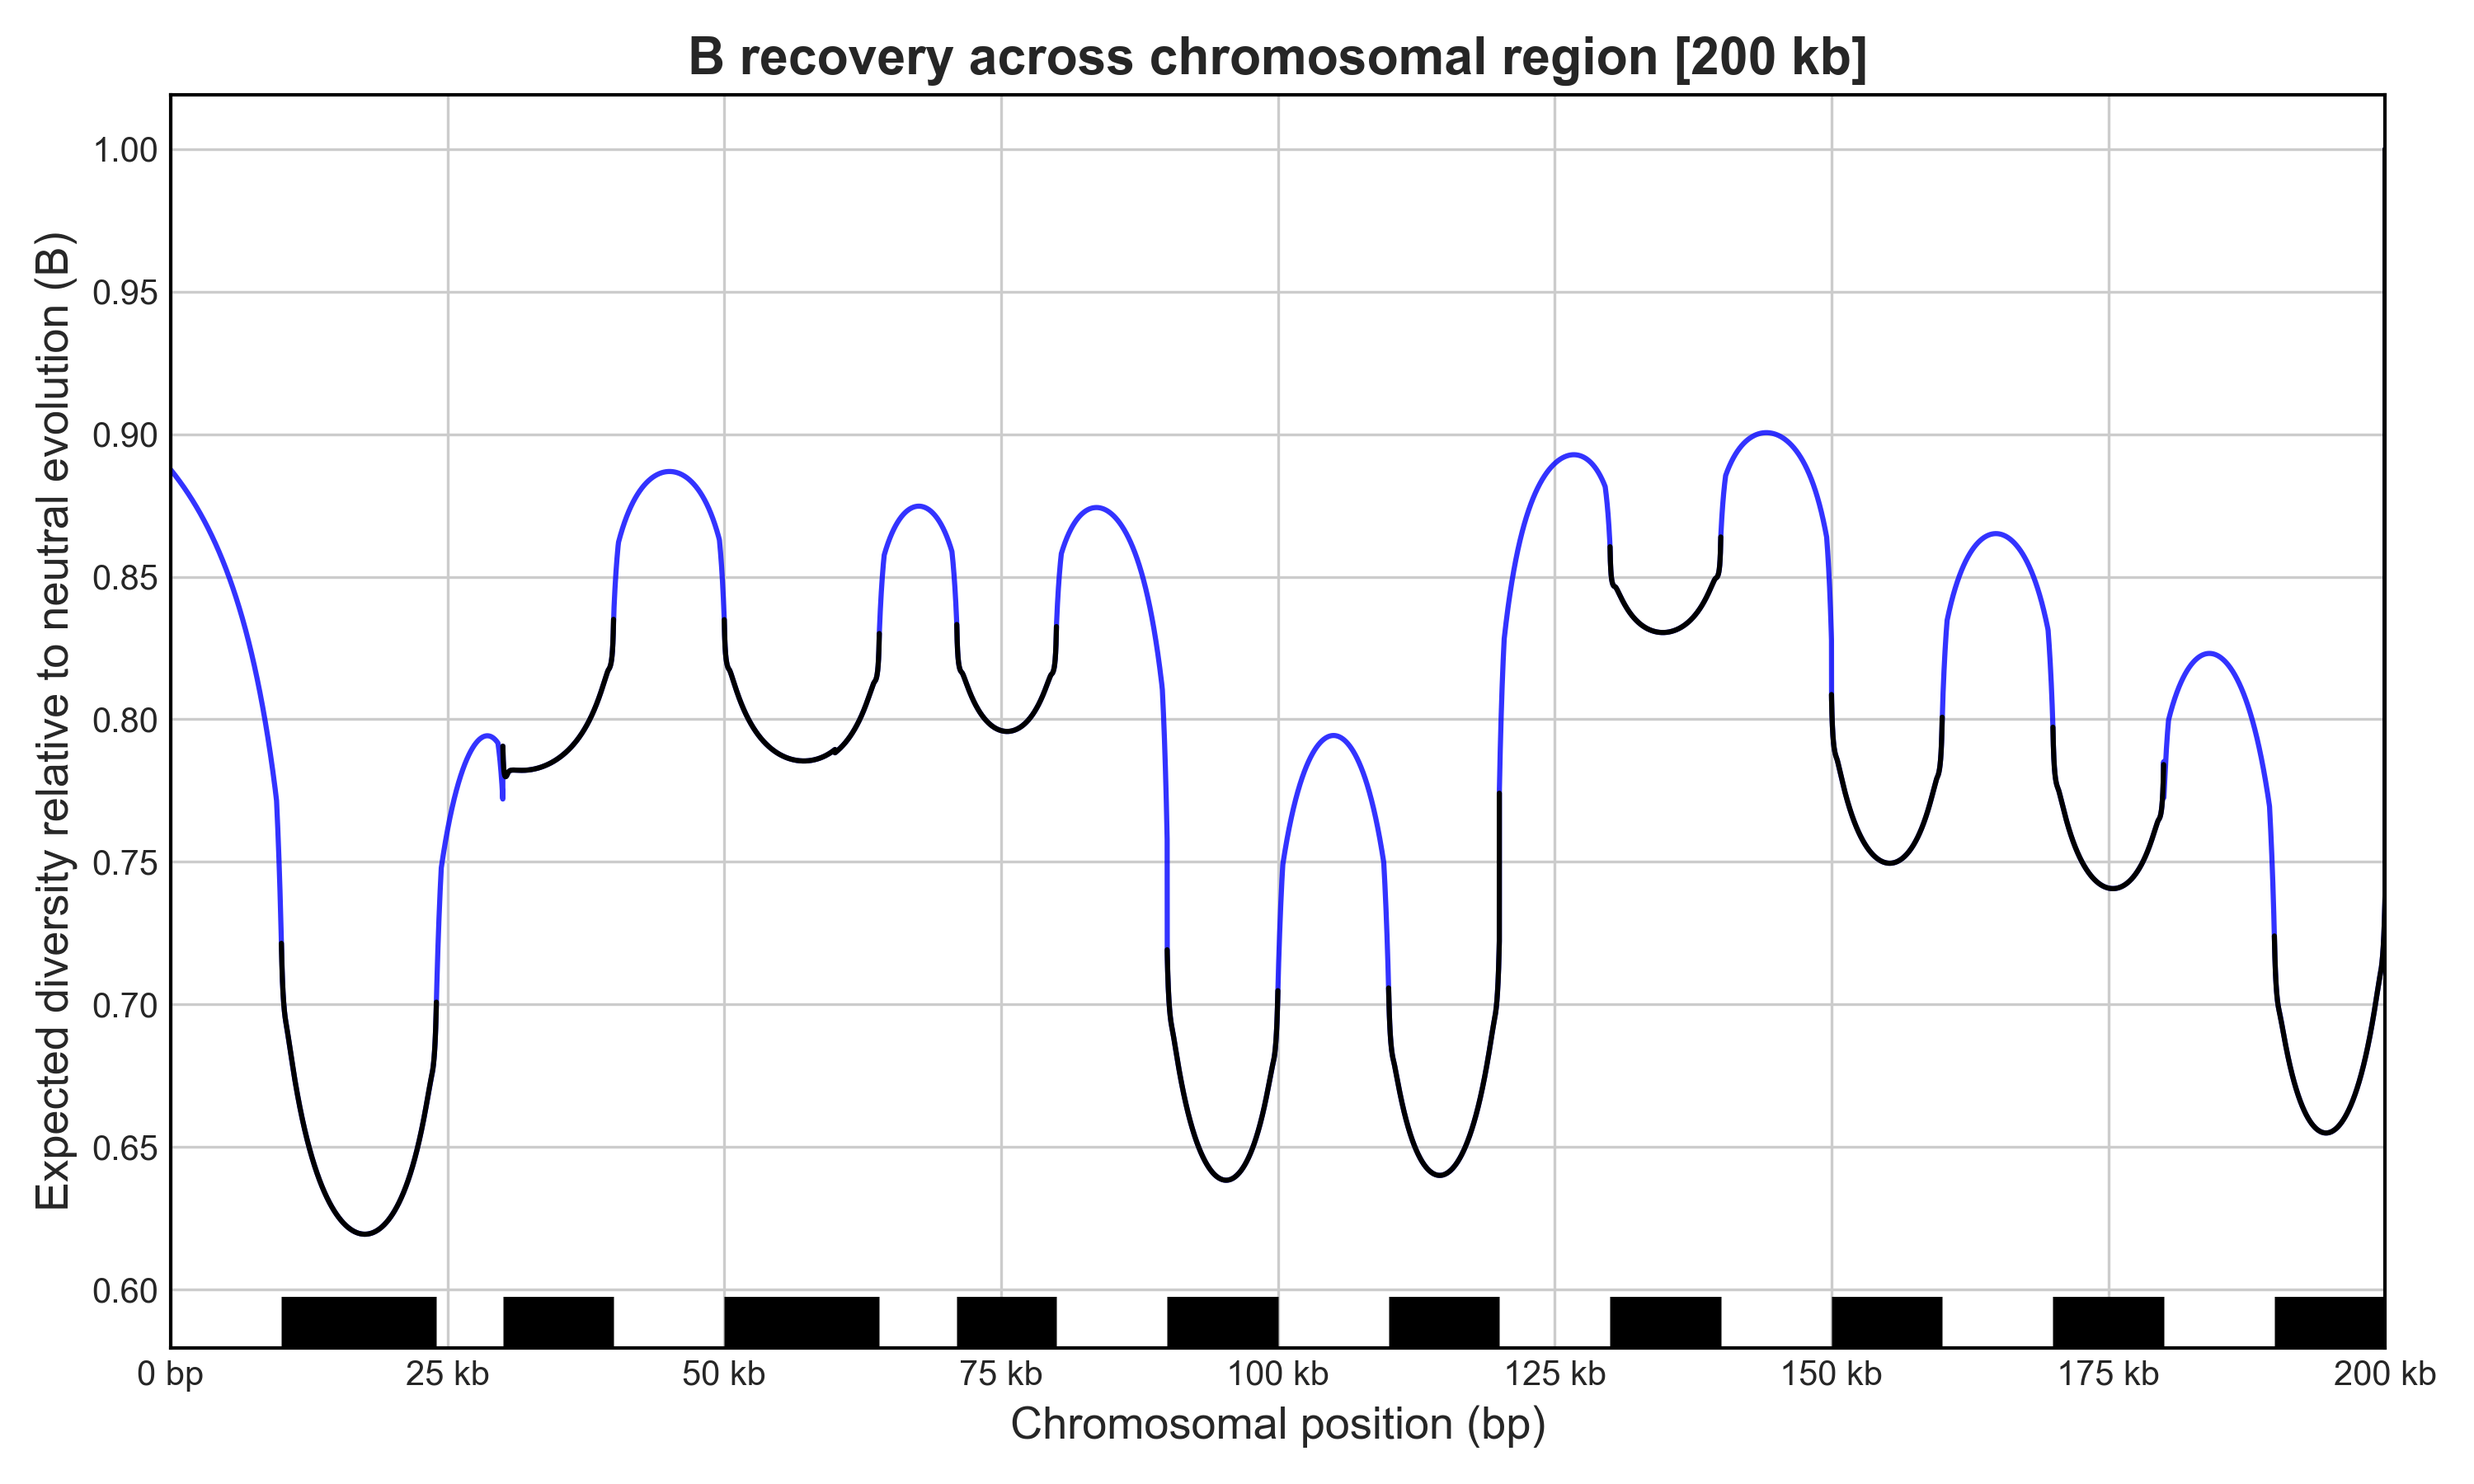
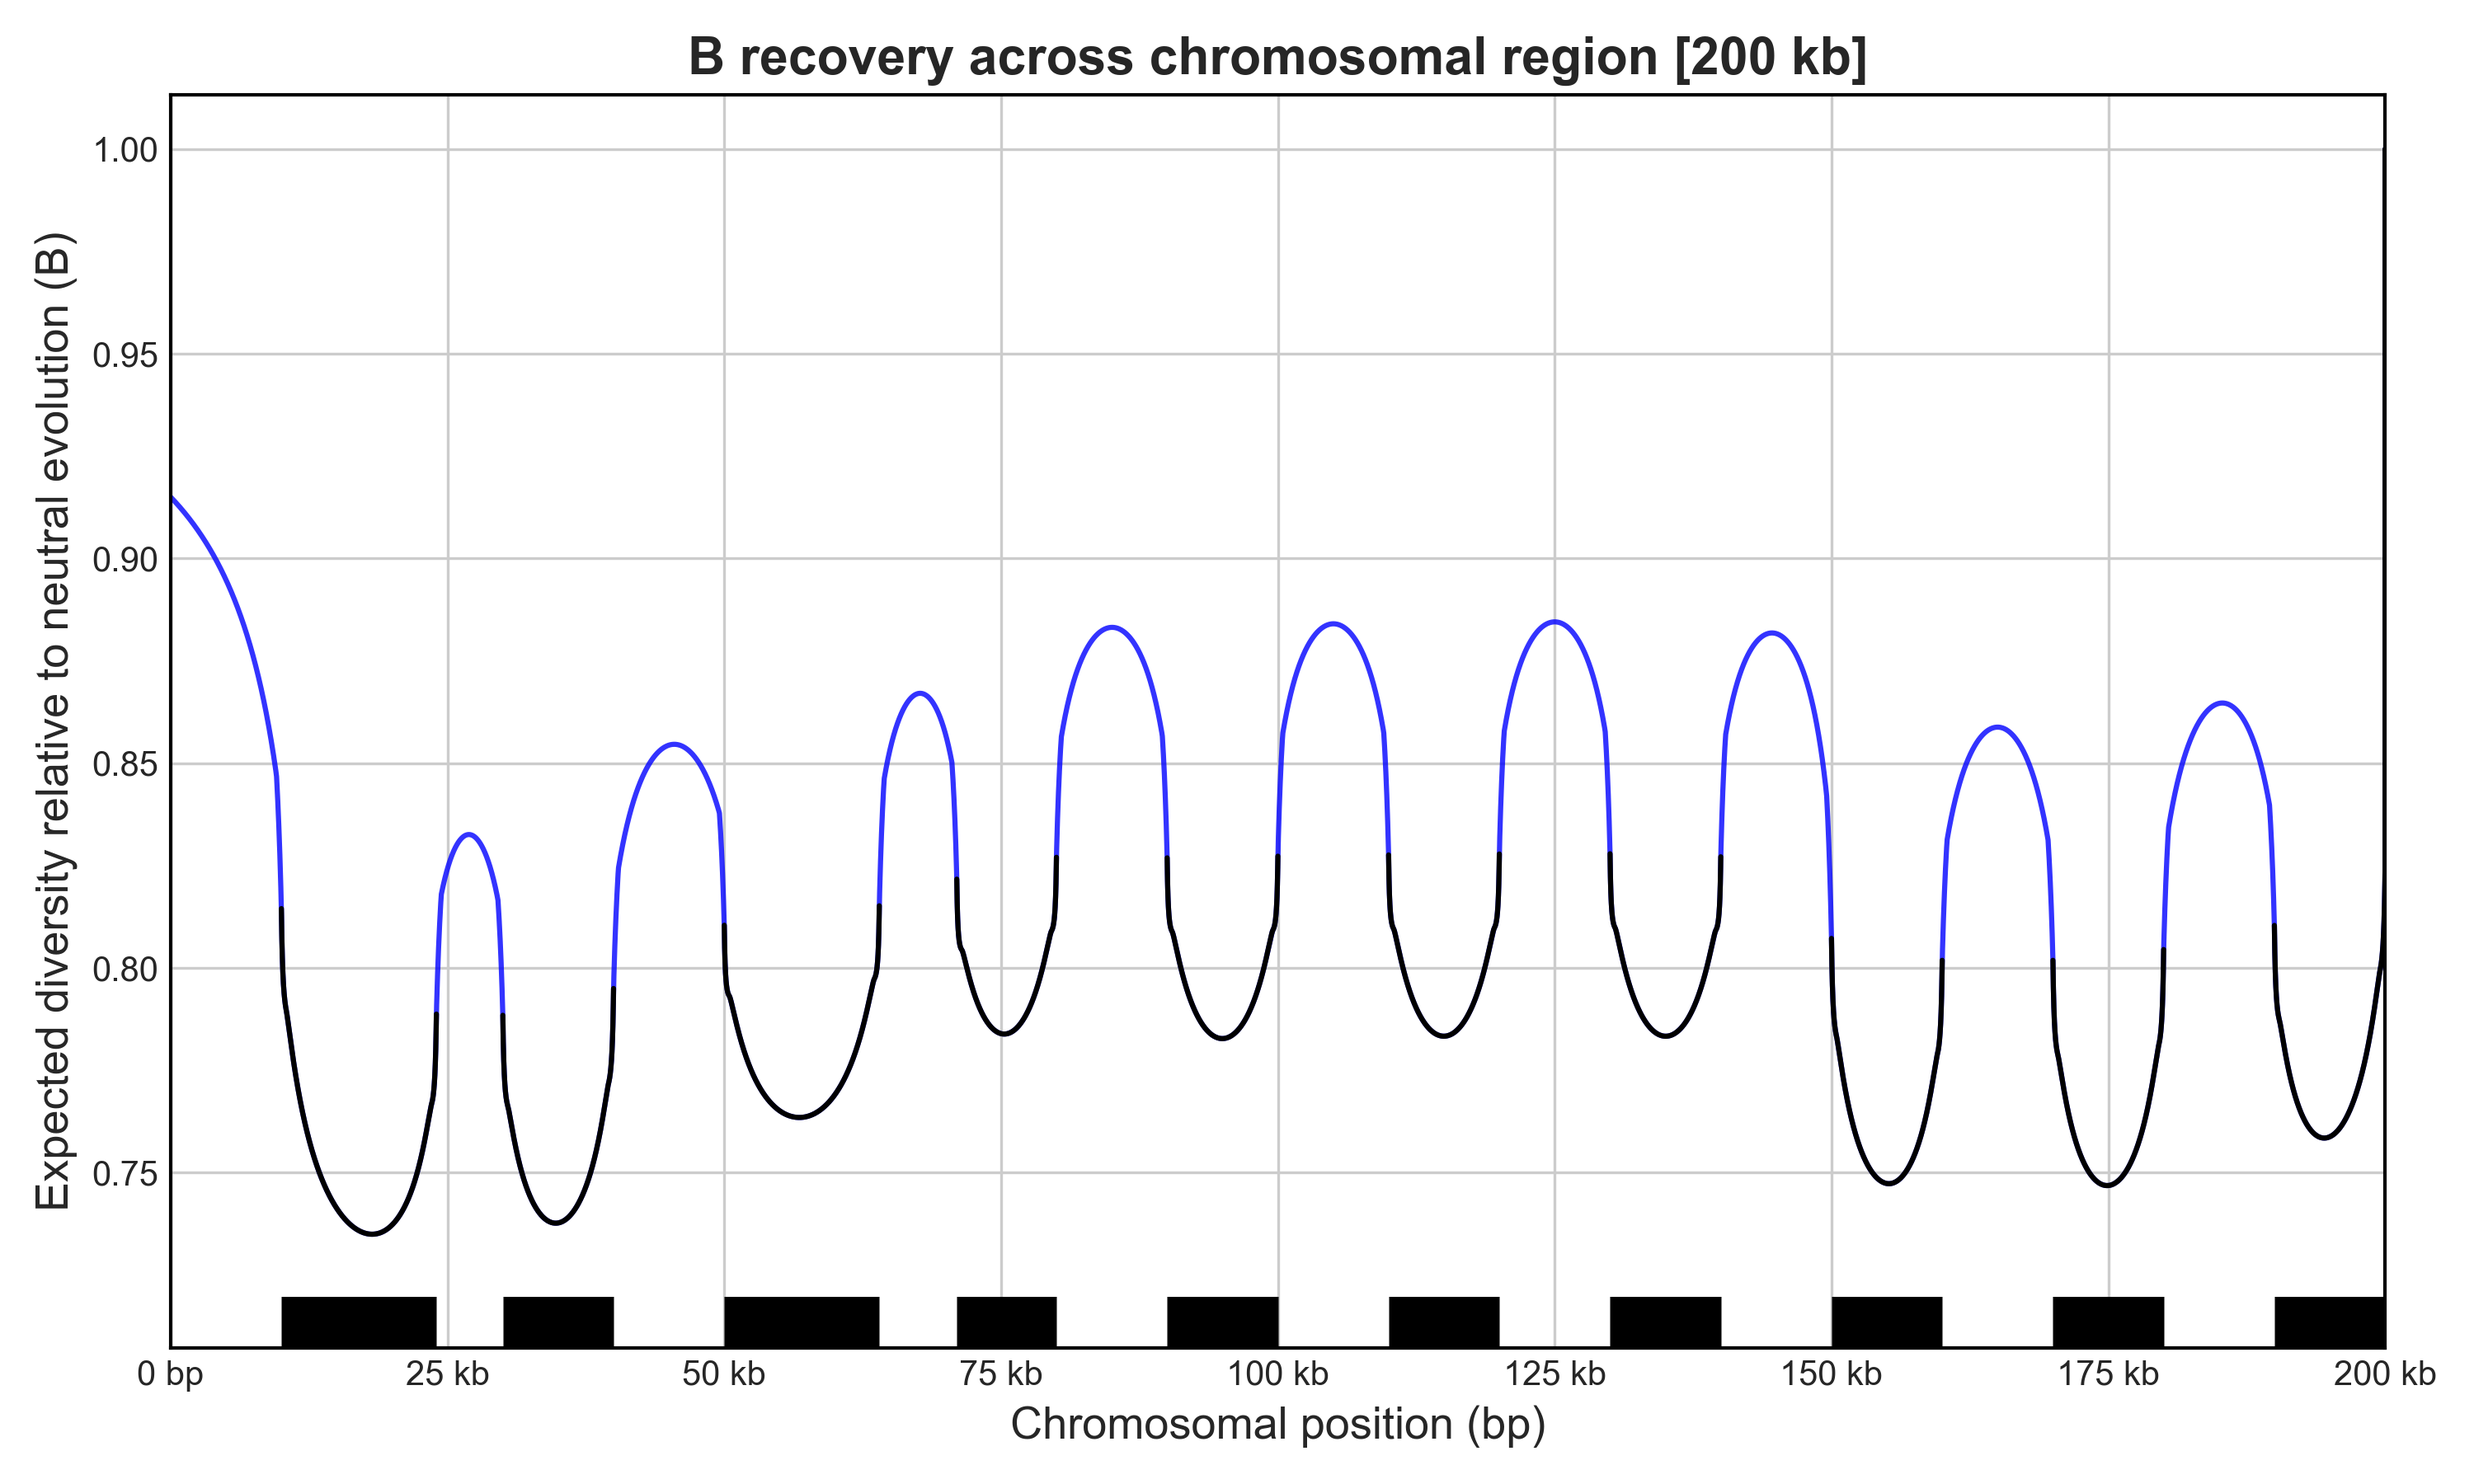
Variable gene conversion now averages over y + l

diff --git a/helperScripts/calculateB.py b/helperScripts/calculateB.py
@@ -34,7 +34,28 @@ def get_a_b_with_GC(C, y, l):
 
         return a, b
 
-def get_a_b_with_GC_andMaps(C, y, l, rec_l, gc_y, g_l_k, g_y_k): ## WORK ON AS YOU WRITE UP EQUATION
+def get_a_b_with_GC_andMaps(C, y, l, local_g): ## WORK ON AS YOU WRITE UP EQUATION
+        with np.errstate(divide='ignore', invalid='ignore'):
+            proportion_nogc_a = np.where(k < y + l, # When GC includes neutral site, this is proportion of the gene it includes
+                                        np.maximum((0.5*(k-y)/l), 0),
+                                        ((y) * (2 * k - (y + l)))/(2 * k * y)
+                                        )
+
+            proportion_nogc_b = np.where(k < y + l, # When GC includes gene site, this is probability the tract includes neutral site of interest 
+                                    1/(2*k) * np.maximum(k-y+1,0) * np.maximum(k - y, 0) / l,
+                                    (k - y - 0.5 * l) / k)
+        
+        a = np.where(k < y, 
+            C + (2 * local_g * k), # Probability of GC on neutral site, where overlap with element not possible
+            C + (2 * local_g * (y) + # When overlap possible this is probability gc is in neutral but doesn't include any of element
+                local_g * (k - y) * # Probability gc is in neutral and includes some element (remaining probability from above)
+                (1 - proportion_nogc_a) # Proportion of gene that gc breaks linkage with when it includes some element
+        ))
+        b = C + (r * l) + (2 * local_g * k) * (1 -  proportion_nogc_b) #* prop k out
+
+        return a, b
+
+def get_a_b_with_GC_andMaps2(C, y, l, rec_l, gc_y, g_l_k, g_y_k): ## WORK ON AS YOU WRITE UP EQUATION
         with np.errstate(divide='ignore', invalid='ignore'):
             proportion_nogc_a = np.where(k < y + l, # When GC includes neutral site, this is proportion of the gene it includes
                                         np.maximum((0.5*(k-y)/l), 0),
@@ -106,10 +127,12 @@ def calculateB_recmap(distance_to_element, length_of_element,
             gc_adjusted_distance_to_element = gc_distances
             g_l_k = (gc_lengths / length_of_element) * g * k
             g_y_k = (gc_distances / distance_to_element) * g * k
+            local_g = (gc_lengths + gc_distances)/(length_of_element + distance_to_element) * g
         else:
             gc_adjusted_distance_to_element = distance_to_element
             g_l_k = g * k
             g_y_k = g * k
+            local_g = g
             
         C = (1.0 - np.exp(-2.0 * r * rec_adjusted_distance_to_element)) / 2.0 # cM
         U = length_of_element * u
@@ -117,10 +140,11 @@ def calculateB_recmap(distance_to_element, length_of_element,
             a = C
             b = C + r * rec_adjusted_length_of_element # cM
         elif g > 0:
-            a, b = get_a_b_with_GC_andMaps(C, y=distance_to_element, l=length_of_element, 
-                                           rec_l=rec_adjusted_length_of_element, 
-                                           gc_y=gc_adjusted_distance_to_element, 
-                                           g_l_k=g_l_k, g_y_k=g_y_k)
+             a, b = get_a_b_with_GC_andMaps(C, y=distance_to_element, l=length_of_element, local_g = local_g)
+            # a, b = get_a_b_with_GC_andMaps(C, y=distance_to_element, l=length_of_element, 
+            #                                rec_l=rec_adjusted_length_of_element, 
+            #                                gc_y=gc_adjusted_distance_to_element, 
+            #                                g_l_k=g_l_k, g_y_k=g_y_k)
 
         E_f1 = calculate_exponent(t1half, t2, U, a, b)
         E_f2 = calculate_exponent(t2, t3, U, a, b)
